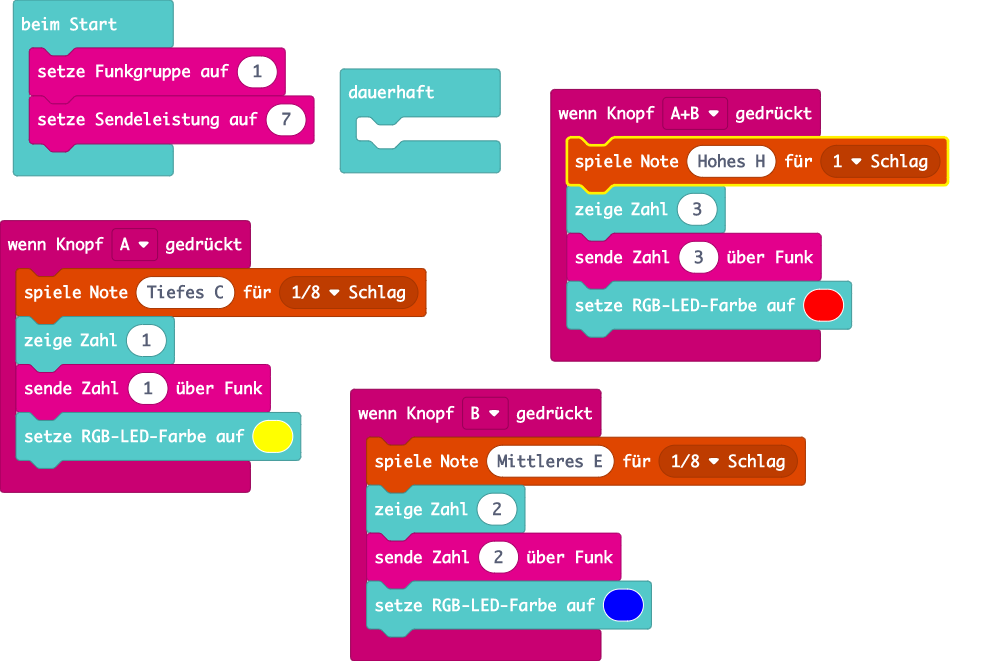
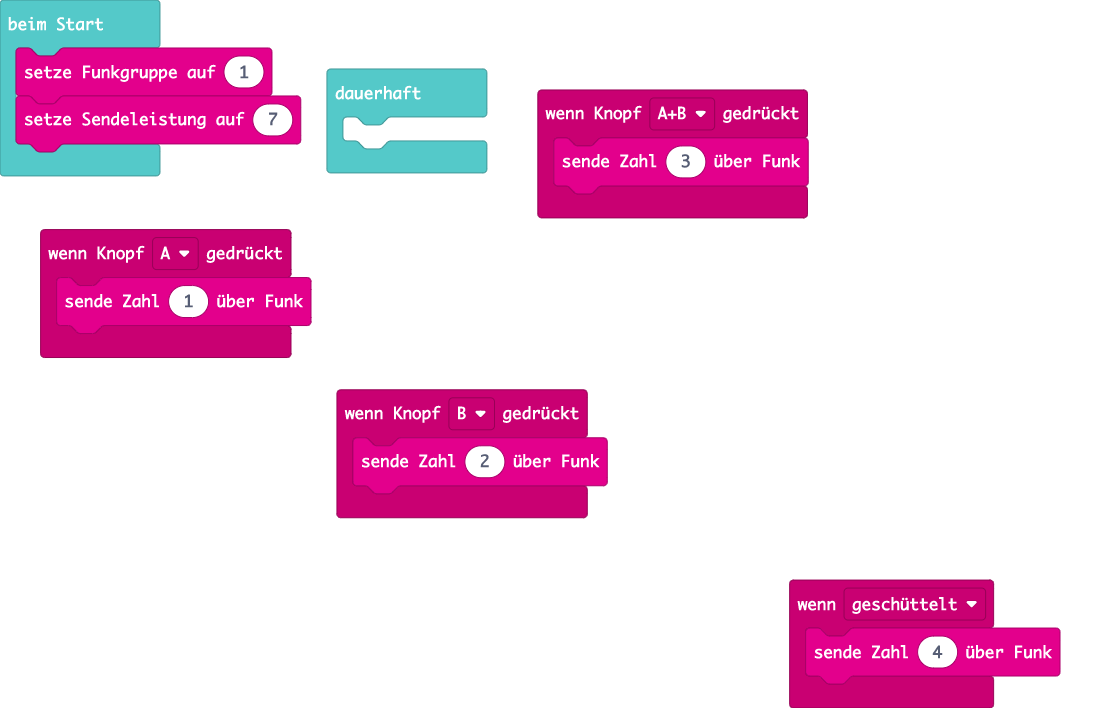
Aktualisiere main.blocks, main.ts

diff --git a/main.ts b/main.ts
@@ -1,20 +1,14 @@
 input.onButtonPressed(Button.A, function () {
-    music.playTone(131, music.beat(BeatFraction.Eighth))
-    basic.showNumber(1)
     radio.sendNumber(1)
-    basic.setLedColor(0xffff00)
+})
+input.onGesture(Gesture.Shake, function () {
+    radio.sendNumber(4)
 })
 input.onButtonPressed(Button.AB, function () {
-    music.playTone(988, music.beat(BeatFraction.Whole))
-    basic.showNumber(3)
     radio.sendNumber(3)
-    basic.setLedColor(0xff0000)
 })
 input.onButtonPressed(Button.B, function () {
-    music.playTone(330, music.beat(BeatFraction.Eighth))
-    basic.showNumber(2)
     radio.sendNumber(2)
-    basic.setLedColor(0x0000ff)
 })
 radio.setGroup(1)
 radio.setTransmitPower(7)
